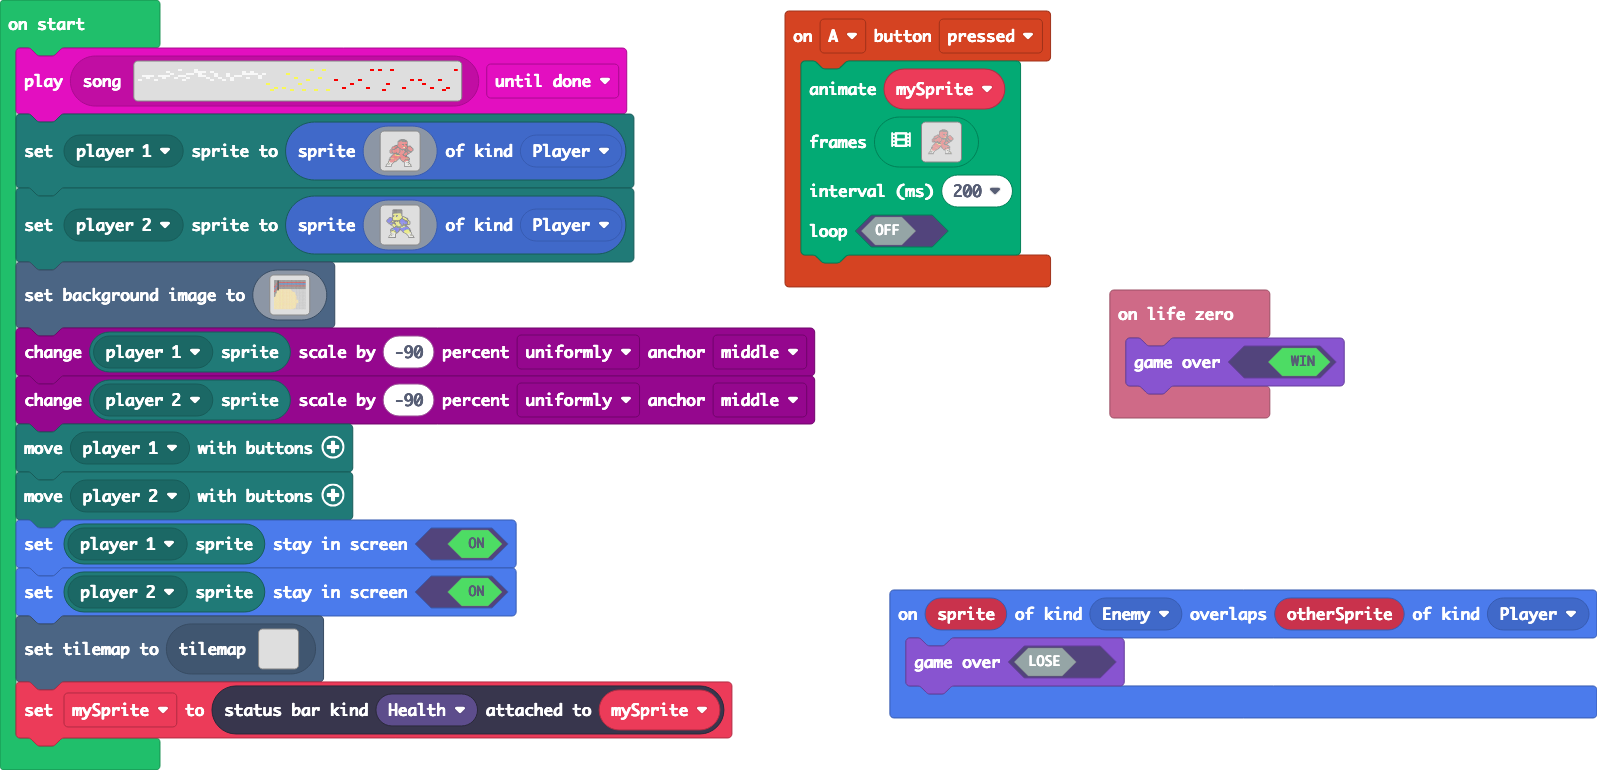
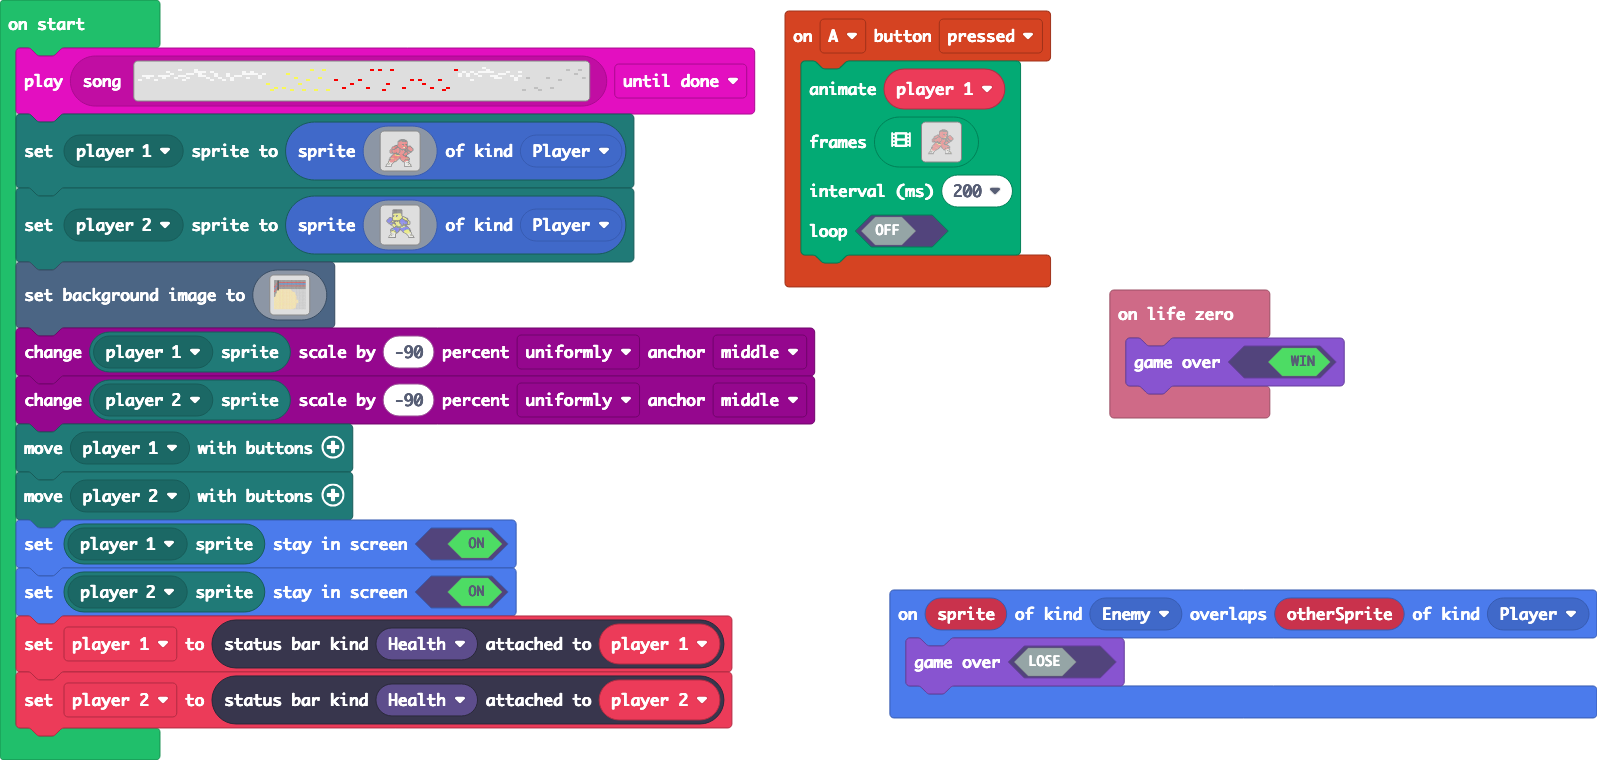
Update main.blocks, main.ts, images.g.jres, images.g.ts, tilemap.g.jres, tilemap.g.ts

diff --git a/main.ts b/main.ts
@@ -1,6 +1,6 @@
 controller.A.onEvent(ControllerButtonEvent.Pressed, function () {
     animation.runImageAnimation(
-    mySprite,
+    player_1,
     [img`
         ..............................................................................................................................................................................................................................................................................................................................................................
         ..............................................................................................................................................................................................................................................................................................................................................................
@@ -975,8 +975,9 @@ sprites.onOverlap(SpriteKind.Enemy, SpriteKind.Player, function (sprite, otherSp
 info.onLifeZero(function () {
     game.gameOver(true)
 })
-let mySprite: StatusBarSprite = null
[1 lines of base64/hex data omitted]
+let player_2: StatusBarSprite = null
+let player_1: StatusBarSprite = null
+music.play(music.createSong(assets.song`MUSIC`), music.PlaybackMode.UntilDone)
 mp.setPlayerSprite(mp.playerSelector(mp.PlayerNumber.One), sprites.create(assets.image`red boxer`, SpriteKind.Player))
 mp.setPlayerSprite(mp.playerSelector(mp.PlayerNumber.Two), sprites.create(img`
     ........................................................................................................................................................................................................................................................................................................
@@ -1297,12 +1298,12 @@ mp.setPlayerSprite(mp.playerSelector(mp.PlayerNumber.Two), sprites.create(img`
     ........................................................................................................................................................................................................................................................................................................
     ........................................................................................................................................................................................................................................................................................................
     `, SpriteKind.Player))
-scene.setBackgroundImage(assets.image`myImage0`)
+scene.setBackgroundImage(assets.image`TheBoxingRingOfTheCityCalledHuswin`)
 scaling.scaleByPercent(mp.getPlayerSprite(mp.playerSelector(mp.PlayerNumber.One)), -90, ScaleDirection.Uniformly, ScaleAnchor.Middle)
 scaling.scaleByPercent(mp.getPlayerSprite(mp.playerSelector(mp.PlayerNumber.Two)), -90, ScaleDirection.Uniformly, ScaleAnchor.Middle)
 mp.moveWithButtons(mp.playerSelector(mp.PlayerNumber.One))
 mp.moveWithButtons(mp.playerSelector(mp.PlayerNumber.Two))
 mp.getPlayerSprite(mp.playerSelector(mp.PlayerNumber.One)).setStayInScreen(true)
 mp.getPlayerSprite(mp.playerSelector(mp.PlayerNumber.Two)).setStayInScreen(true)
-tiles.setCurrentTilemap(tilemap`level2`)
-mySprite = statusbars.getStatusBarAttachedTo(StatusBarKind.Health, mySprite)
+player_1 = statusbars.getStatusBarAttachedTo(StatusBarKind.Health, player_1)
+player_2 = statusbars.getStatusBarAttachedTo(StatusBarKind.Health, player_2)

diff --git a/images.g.ts b/images.g.ts
@@ -887,7 +887,7 @@ dbbbddddddddddddddddddddddddddddddddddddddd11111111111111111dddddddddddddddddddd
 ...................................................................................................................................................................................................
 `;
             case "image5":
-            case "myImage0":return img`
+            case "TheBoxingRingOfTheCityCalledHuswin":return img`
 cccccccccccccccccccccccccccccccccccccccccccccccccccccccccccccccccccccccccccccccccccccccccccccccccccccccccccccccccccccccccccccccccccccccccccccccccccccccccccccccccccccccccc
 cccccccccccccccccccccccccccccccccccccccccccccccccccccccccccccccccccccccccccccccccccccccccccccccccccccccccccccccccccccccccccccccccccccccccccccccccccccccccccccccccccccccccc
 cccccccccccccccccccccccccccccccccccccccccccccccccccccccccccccccccccccccccccccccccccccccccccccccccccccccccccccccccccccccccccccccccccccccccccccccccccccccccccccccccccccccccc
@@ -1057,7 +1057,8 @@ dddddddddddddddddddddddddddddddddddddddddddddddddddddddddddddddddddddddddddddddd
 
     helpers._registerFactory("song", function(name: string) {
         switch(helpers.stringTrim(name)) {
-
+            case "song1":
[1 lines of base64/hex data omitted]
         }
         return null;
     })

diff --git a/tilemap.g.ts b/tilemap.g.ts
@@ -43,6 +43,25 @@ namespace myTiles {
 . . . . . . . . . . . . . . . . 
 . . . . . . . . . . . . . . . . 
 `, [myTiles.transparency16], TileScale.Sixteen);
+            case "level3":
+            case "level3":return tiles.createTilemap(hex`1000100000000000000000000000000000000000000000000000000000000000000000000000000000000000000000000000000000000000000000000000000000000000000000000000000000000000000000000000000000000000000000000000000000000000000000000000000000000000000000000000000000000000000000000000000000000000000000000000000000000000000000000000000000000000000000000000000000000000000000000000000000000000000000000000000000000000000000000000000000000000000000000000000000000000000000000000000000000000000000000000000000000000000000000000000000000000`, img`
+. . . . . . . . . . . . . . . . 
+. . . . . . . . . . . . . . . . 
+. . . . . . . . . . . . . . . . 
+. . . . . . . . . . . . . . . . 
+. . . . . . . . . . . . . . . . 
+. . . . . . . . . . . . . . . . 
+. . . . . . . . . . . . . . . . 
+. . . . . . . . . . . . . . . . 
+. . . . . . . . . . . . . . . . 
+. . . . . . . . . . . . . . . . 
+. . . . . . . . . . . . . . . . 
+. . . . . . . . . . . . . . . . 
+. . . . . . . . . . . . . . . . 
+. . . . . . . . . . . . . . . . 
+. . . . . . . . . . . . . . . . 
+. . . . . . . . . . . . . . . . 
+`, [myTiles.transparency16], TileScale.Sixteen);
         }
         return null;
     })
